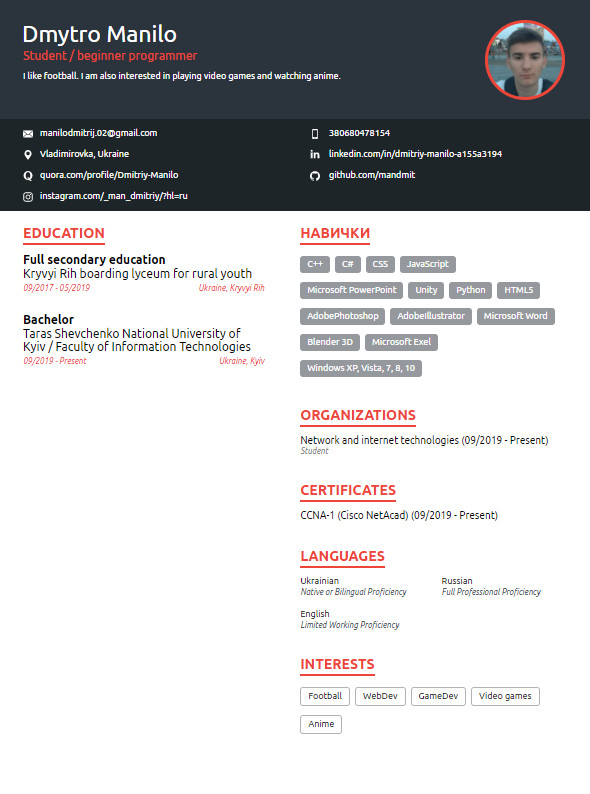
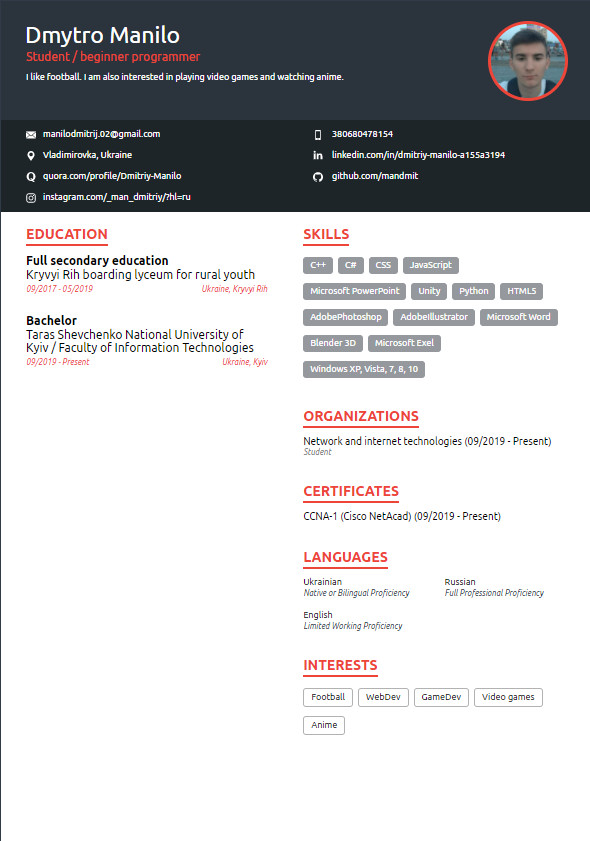
Vol 0.2

Changed region(s): [[0.0, 0.1511, 1.0, 0.937], [0.0305, 0.0302, 0.5797, 0.1209], [0.8237, 0.0, 0.9763, 0.1511]]

diff --git a/public_html/practice2/СVhtml.html b/public_html/practice2/СVhtml.html
@@ -1,0 +1,91 @@
+<!DOCTYPE html>
+<!--
+To change this license header, choose License Headers in Project Properties.
+To change this template file, choose Tools | Templates
+and open the template in the editor.
+-->
+<html>
+    <head>
+        <title>My CV in html form</title>
+        <meta charset="UTF-8">
+        <meta name="viewport" content="width=device-width, initial-scale=1.0">
+    </head>
+    <body>
+        <div><h1><a href="practice2.html">Back</a></h1></div>
+        <div>
+        <div>
+            <h2>Dmytro Manilo</h2>
+            <h3>Student/beginner programmer</h3>
+            <p>I like football.I am also interested in playing video games and watching anime.</p>
+        </div>
+        <div>
+            <img src="iam.jpg" alt=""/>
+        </div>
+        </div>
+        <div>
+            <p>manilodmitrij.02@gmail.com</p>
+            <p>Vladimirovka,Ukraine</p>
+            <p>+380680478154</p>
+            <p><a href="https://www.quora.com/profile/Dmitriy-Manilo">My Quora</a></p>
+            <p><a href="https://www.instagram.com/_man_dmitriy/?hl=ru">My Instagram</a></p>
+            <p><a href="https://www.linkedin.com/in/dmitriy-manilo-a155a3194/">My Linkedin</a></p>
+            <p><a href="https://github.com/mandmit">My GitHub</a></p>
+        </div>
+        <div>
+            <h1>Education</h1>
+            <h3>Full secondary education</h3>
+            <p>Kryvyi Rih boarding lyceum for rural youth</p>
+            <p>09/2017-05/2019</p>
+            <p>Ukraine, Kryvyi Rih</p>
+            <h3>Bachelor</h3>
+            <p>Taras Shevchenko National University of Kyiv / Faculty of Information Technologies</p>
+            <p>09/2019-Present</p>
+            <p>Ukraine, Kyiv</p>
+        </div>
+        <div>
+            <div>
+            <h1>Skills</h1>
+            <p>C++</p>
+            <p>C#</p>
+            <p>CSS</p>
+            <p>JavaScript</p>
+            <p>Python</p>
+            <p>HTML5</p>
+            <p>Unity</p>
+            <p>Blender 3D</p>
+            <p>Windows XP,Vista,7,8,10</p>
+            <p>Microsoft PowerPoint</p>
+            <p>Microsoft Word</p>
+            <p>Microsoft Exel</p>
+            <p>Adobe Photoshop</p>
+            <p>Adobe Illustrator</p>
+            </div>
+            <div>
+            <h1>Organizations</h1>
+            <p>Network and internet technologies (09/2019-Present)</p>
+            <p>Student</p>
+            </div>
+            <div>
+                <h1>Certificates</h1>
+                <p>CCNA-1 (CISCO NetAcad) (09/2019-Present)</p>
+            </div>
+            <div>
+                <h1>Languages</h1>
+                <h3>Ukrainian</h3>
+                <p>Native or Bilingual Proficiency</p>
+                <h3>Russian</h3>
+                <p>Full Professional Proficiency</p>
+                <h3>English</h3>
+                <p>Limited Working Proficiency</p>
+            </div>
+            <div>
+                <h1>Interests</h1>
+                <p>Football</p>
+                <p>WebDev</p>
+                <p>GameDev</p>
+                <p>Video games</p>
+                <p>Anime</p>
+            </div>
+        </div>
+    </body>
+</html>

diff --git a/public_html/index.html b/public_html/index.html
@@ -11,8 +11,12 @@ and open the template in the editor.
                 background-color: cadetblue;
             }
             h1{
+                text-align:center;
                border-style:double;
                background-color: window;
+            }
+            h2 {
+                color:lightseagreen;
             }
         </style>
         <title>Main window</title>
@@ -20,8 +24,14 @@ and open the template in the editor.
         <meta name="viewport" content="width=device-width, initial-scale=1.0">
     </head>
     <body>
-        <h1 style="text-align:center;">Useful links<br></h1>
-        <h2 style="color:lightgreen;"><a href="CourseWork/CourseWork.html">Course Work</a></h2>
-        <h2 style="color:lightseagreen;"><a href="practice1/practice1.html">Practice №1</a></h2>
+        <div>
+        <h2><a href="CourseWork/CourseWork.html">Course Work</a></h2>
+        <h1>My works</h1>
+        </div>
+        _____<div>
+            <h2><a href="practice1/practice1.html">Practice №1</a></h2>
+            <h2><a href="practice2/practice2.html">Practice №2</a></h2>
+        </div>
+        
     </body>
 </html>

diff --git a/public_html/practice2/practice2.html b/public_html/practice2/practice2.html
@@ -1,0 +1,17 @@
+<!DOCTYPE html>
+<!--
+To change this license header, choose License Headers in Project Properties.
+To change this template file, choose Tools | Templates
+and open the template in the editor.
+-->
+<html>
+    <head>
+        <title>Practice 2</title>
+        <meta charset="UTF-8">
+        <meta name="viewport" content="width=device-width, initial-scale=1.0">
+    </head>
+    <body>
+        <h1><a href="СVhtml.html">CV in html form</a></h1>
+        <h1><a href="../index.html">Home</a></h1>
+    </body>
+</html>
